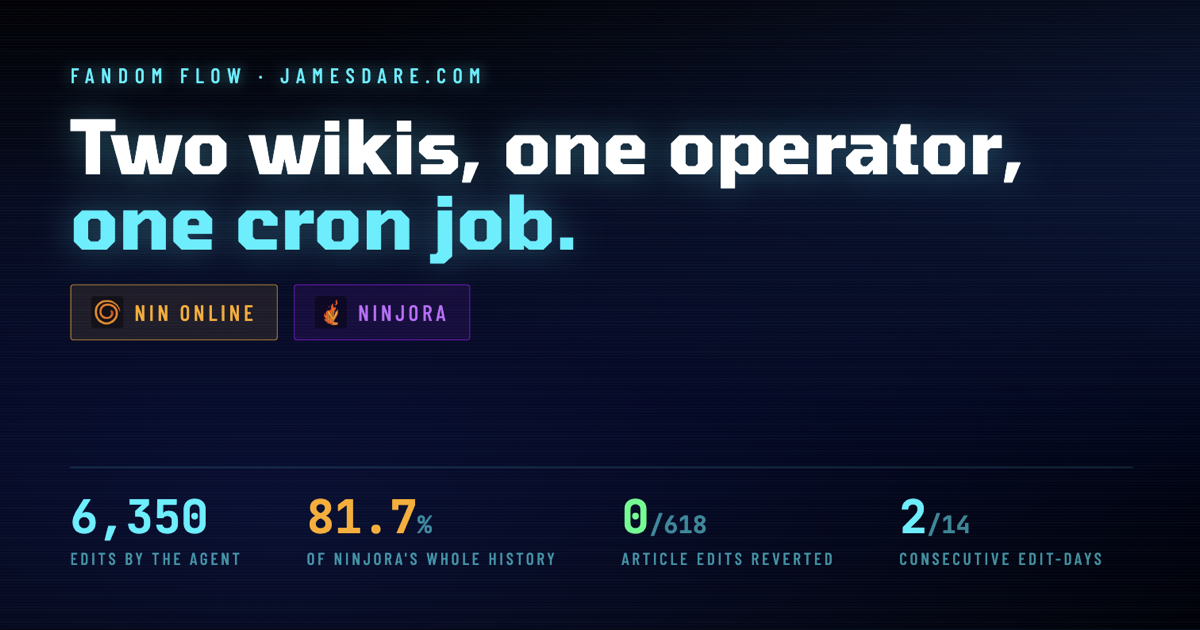
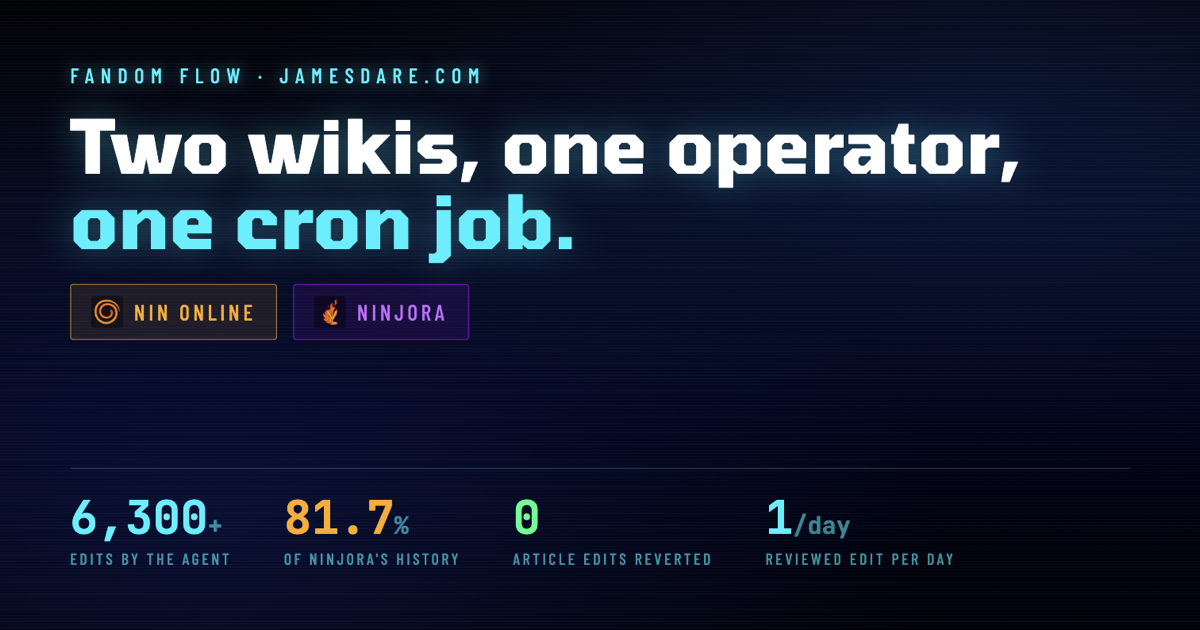
fix(fandom-flow): share card carries no daily-moving figure
Turning og.html into og.png needs a browser, so the cron cannot refresh it.
Anything that changes every day would freeze in the card and quietly contradict
the page it links to - the streak tile would have read 2/14 for a fortnight.

Card now shows: 6,300+ edits, 81.7% of Ninjora's history, 0 article edits
reverted, 1 reviewed edit per day. All stable for months.

Also removed the pointless build_og.py step from the cron - it regenerated
og.html, which nothing serves, and implied the PNG was being refreshed.

Rendering note: the capture viewport clamps at 1074 CSS px, so the card renders
at 1000x525 scaled and is upscaled to 1200x630. Capture runs at dpr 2, so the
physical source is 2000x1050 and the upscale is lossless.

Claude-Session: https://claude.ai/code/session_0199SejtA5vVi39XJx6Jx5UJ

diff --git a/public/fandom-flow/index.html b/public/fandom-flow/index.html
@@ -15,7 +15,7 @@
 <meta property="og:image" content="https://jamesdare.com/fandom-flow/og.png">
 <meta property="og:image:width" content="1200">
 <meta property="og:image:height" content="630">
-<meta property="og:image:alt" content="Fandom Flow - two wikis, one operator, one cron job. 6,350 edits by the agent, zero article edits reverted.">
+<meta property="og:image:alt" content="Fandom Flow - two wikis, one operator, one cron job. Over 6,300 edits by the agent, zero article edits reverted.">
 <meta name="twitter:image" content="https://jamesdare.com/fandom-flow/og.png">
 <link rel="preconnect" href="https://fonts.googleapis.com">
 <link rel="preconnect" href="https://fonts.gstatic.com" crossorigin>
@@ -247,11 +247,11 @@ tr:hover td{background:color-mix(in srgb,var(--a) 6%,transparent)}
     <h1>Two wikis, one operator, <b>one cron job.</b></h1>
     <div class="stamp mono">
       <div>Account <b>RawBOT</b> &middot; sysop on both</div>
-      <div id="freshness">Generated <b>2026-08-22 16:15 UTC</b></div>
+      <div id="freshness">Generated <b>2026-08-22 16:25 UTC</b></div>
     </div>
   </div>
 
[2 lines of base64/hex data omitted]
   <section class="view on" id="v-ninonline" style="--a:#ffaa00"><div class="sys"><span class="sweep"></span><div class="subnav" role="tablist"><button class="sub" role="tab" data-pane="ninonline-0" aria-selected="true" aria-controls="p-ninonline-0">Daily Quest</button><button class="sub" role="tab" data-pane="ninonline-1" aria-selected="false" aria-controls="p-ninonline-1">Status</button><button class="sub" role="tab" data-pane="ninonline-2" aria-selected="false" aria-controls="p-ninonline-2">Activity Log</button><button class="sub" role="tab" data-pane="ninonline-3" aria-selected="false" aria-controls="p-ninonline-3">Quest Log</button></div><div class="pane on" id="p-ninonline-0" role="tabpanel">
       <div class="quest">
         <div>
@@ -269,7 +269,7 @@ tr:hover td{background:color-mix(in srgb,var(--a) 6%,transparent)}
       <span class="mono">com.daredev.nin-wiki-streak</span>. The quest runs on this wiki only -
       Ninjora has no achievement system enabled.</p></div><div class="pane" id="p-ninonline-1" role="tabpanel">
       <div>
[2 lines of base64/hex data omitted]
         <div class="wrole">Maintain it. Sysop. &middot; by Hitspark Interactive</div>
         <div class="links"><a class="lk" href="https://ninonline.fandom.com" target="_blank" rel="noopener noreferrer">Wiki</a><a class="lk" href="https://www.ninonline.com/" target="_blank" rel="noopener noreferrer">Game</a><a class="lk" href="https://store.steampowered.com/app/1674010/Nin_Online/" target="_blank" rel="noopener noreferrer">Steam</a><a class="lk" href="https://www.youtube.com/c/NinOnlineGame" target="_blank" rel="noopener noreferrer">YouTube</a><a class="lk" href="https://x.com/ninmmo" target="_blank" rel="noopener noreferrer">X</a><a class="lk" href="https://discord.gg/ninonline" target="_blank" rel="noopener noreferrer">Discord</a></div>
       </div>
@@ -393,7 +393,7 @@ tr:hover td{background:color-mix(in srgb,var(--a) 6%,transparent)}
       correctly-declared edit that must still go through, so a suite that refused everything could
       not pass.</p>
       <p class="lead"><span class="mono" style="font-size:22px;color:var(--green)">11/11</span>
-      <span style="color:var(--ink-3)"> guards proven &middot; last run 2026-08-22 13:28 UTC &middot;
+      <span style="color:var(--ink-3)"> guards proven &middot; last run 2026-08-22 16:25 UTC &middot;
       <span class="mono">test_guards.py</span></span></p>
       <div class="scroll"><table><thead><tr>
         <th style="width:8%">State</th><th style="width:15%">Constraint</th>
@@ -415,7 +415,7 @@ tr:hover td{background:color-mix(in srgb,var(--a) 6%,transparent)}
           no queue - the job's claim is not the measurement.</p></div>
         <div class="step"><div class="k">caveat</div><h3>Known limits</h3>
           <p>Upload counts cap at 500 per log query and are marked <code>+</code> where the cap was
-          hit. Generated <span class="mono">2026-08-22 16:15 UTC</span>.</p></div>
+          hit. Generated <span class="mono">2026-08-22 16:25 UTC</span>.</p></div>
       </div>
       <p class="lead" style="margin-top:22px">Nin Online is developed by Hitspark; Ninjora by Pixel
       Pirate. This page documents wiki and tooling work only - neither game was built here.</p></div></div></section>
@@ -423,6 +423,6 @@ tr:hover td{background:color-mix(in srgb,var(--a) 6%,transparent)}
     &nbsp;&middot;&nbsp; Select a system above &mdash; each panel opens in place</div>
 </div>
 
-<script src="/fandom-flow/app.js?v=202608221615UTC" defer></script>
+<script src="/fandom-flow/app.js?v=202608221625UTC" defer></script>
 </body>
 </html>

diff --git a/public/fandom-flow/app.js b/public/fandom-flow/app.js
@@ -90,7 +90,7 @@
   // Staleness is the one thing this page must never hide: a dead cron would
   // otherwise leave it quietly asserting a streak with old data.
   var f = document.getElementById('freshness');
-  var gen = "2026-08-22 16:15 UTC".replace(' UTC', 'Z').replace(' ', 'T');
+  var gen = "2026-08-22 16:25 UTC".replace(' UTC', 'Z').replace(' ', 'T');
   var days = (Date.now() - Date.parse(gen)) / 86400000;
   if (f && days > 2) {
     f.innerHTML = '<span class="stale">STALE - last built ' + Math.floor(days) +
